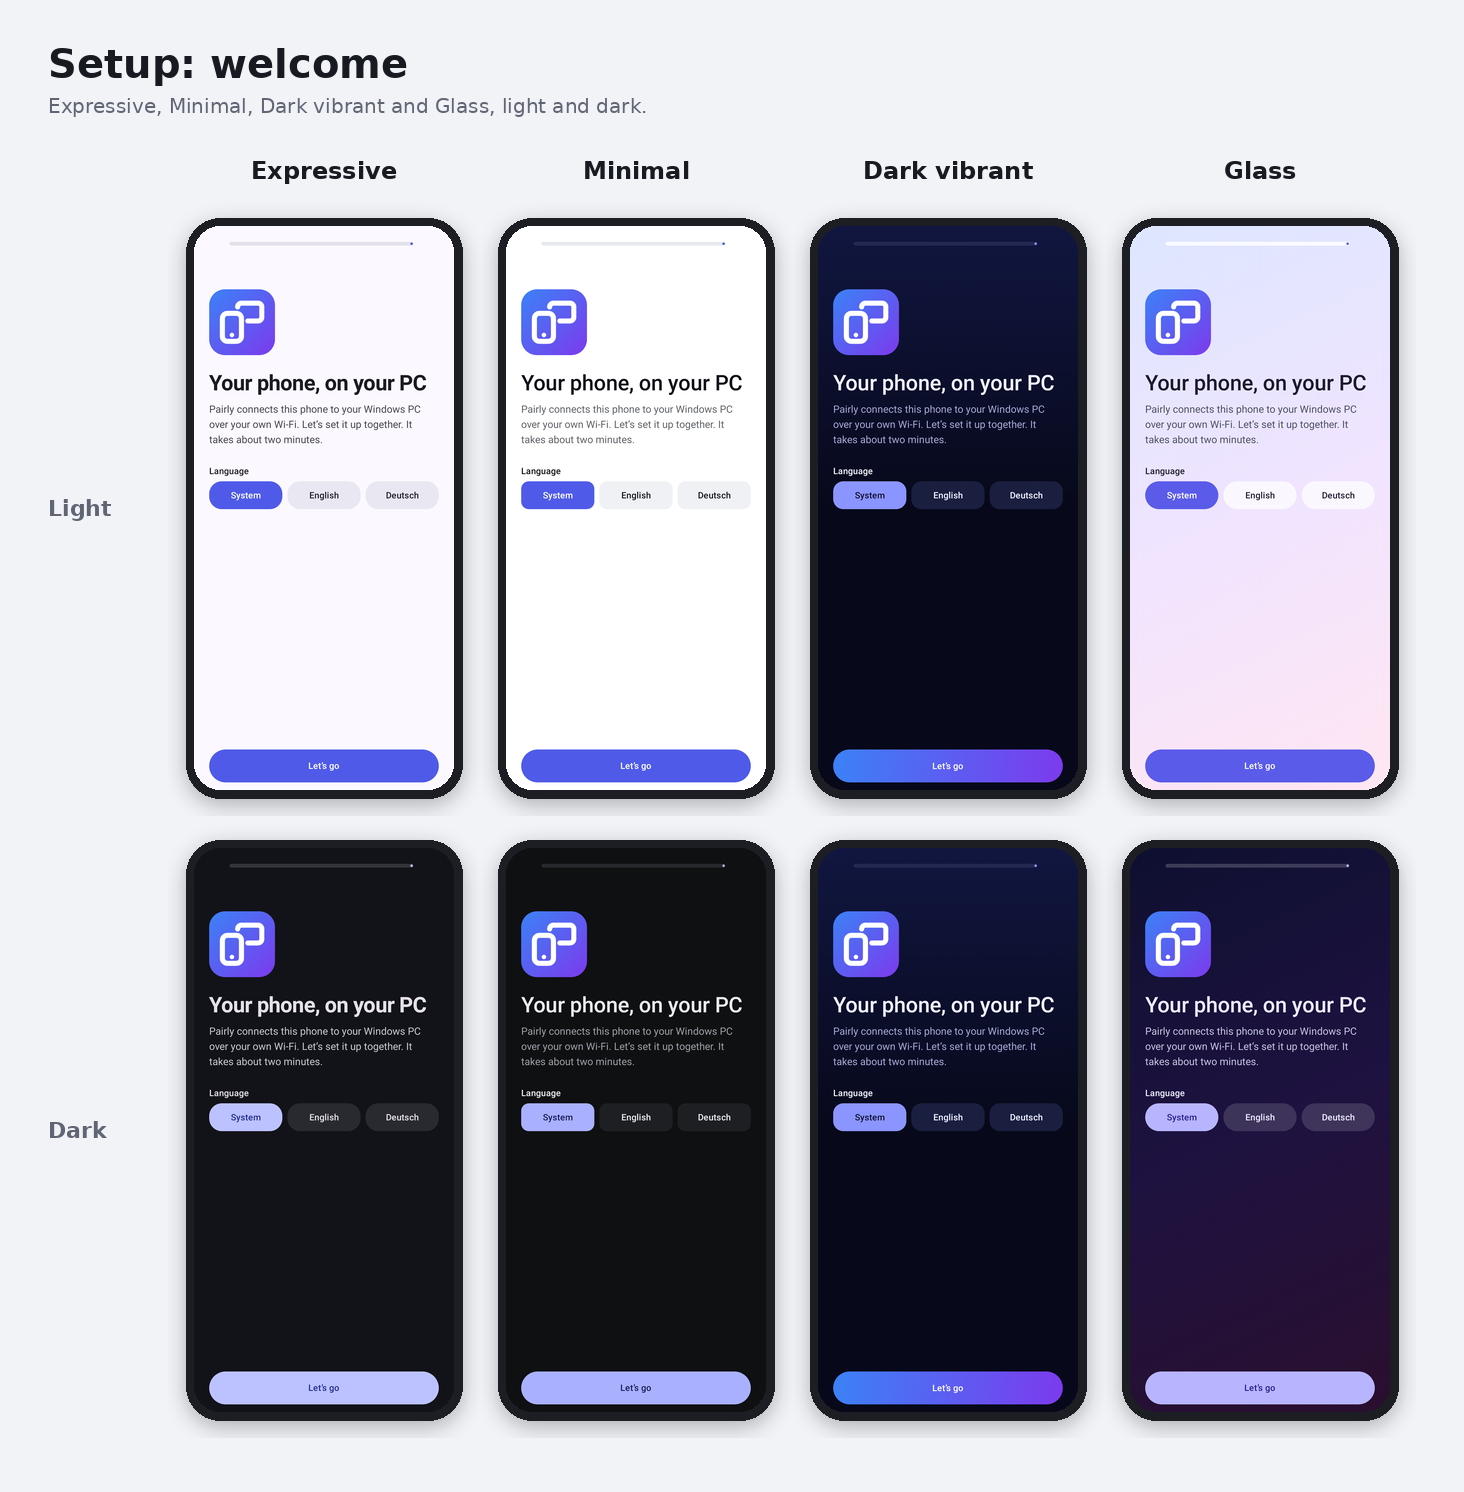
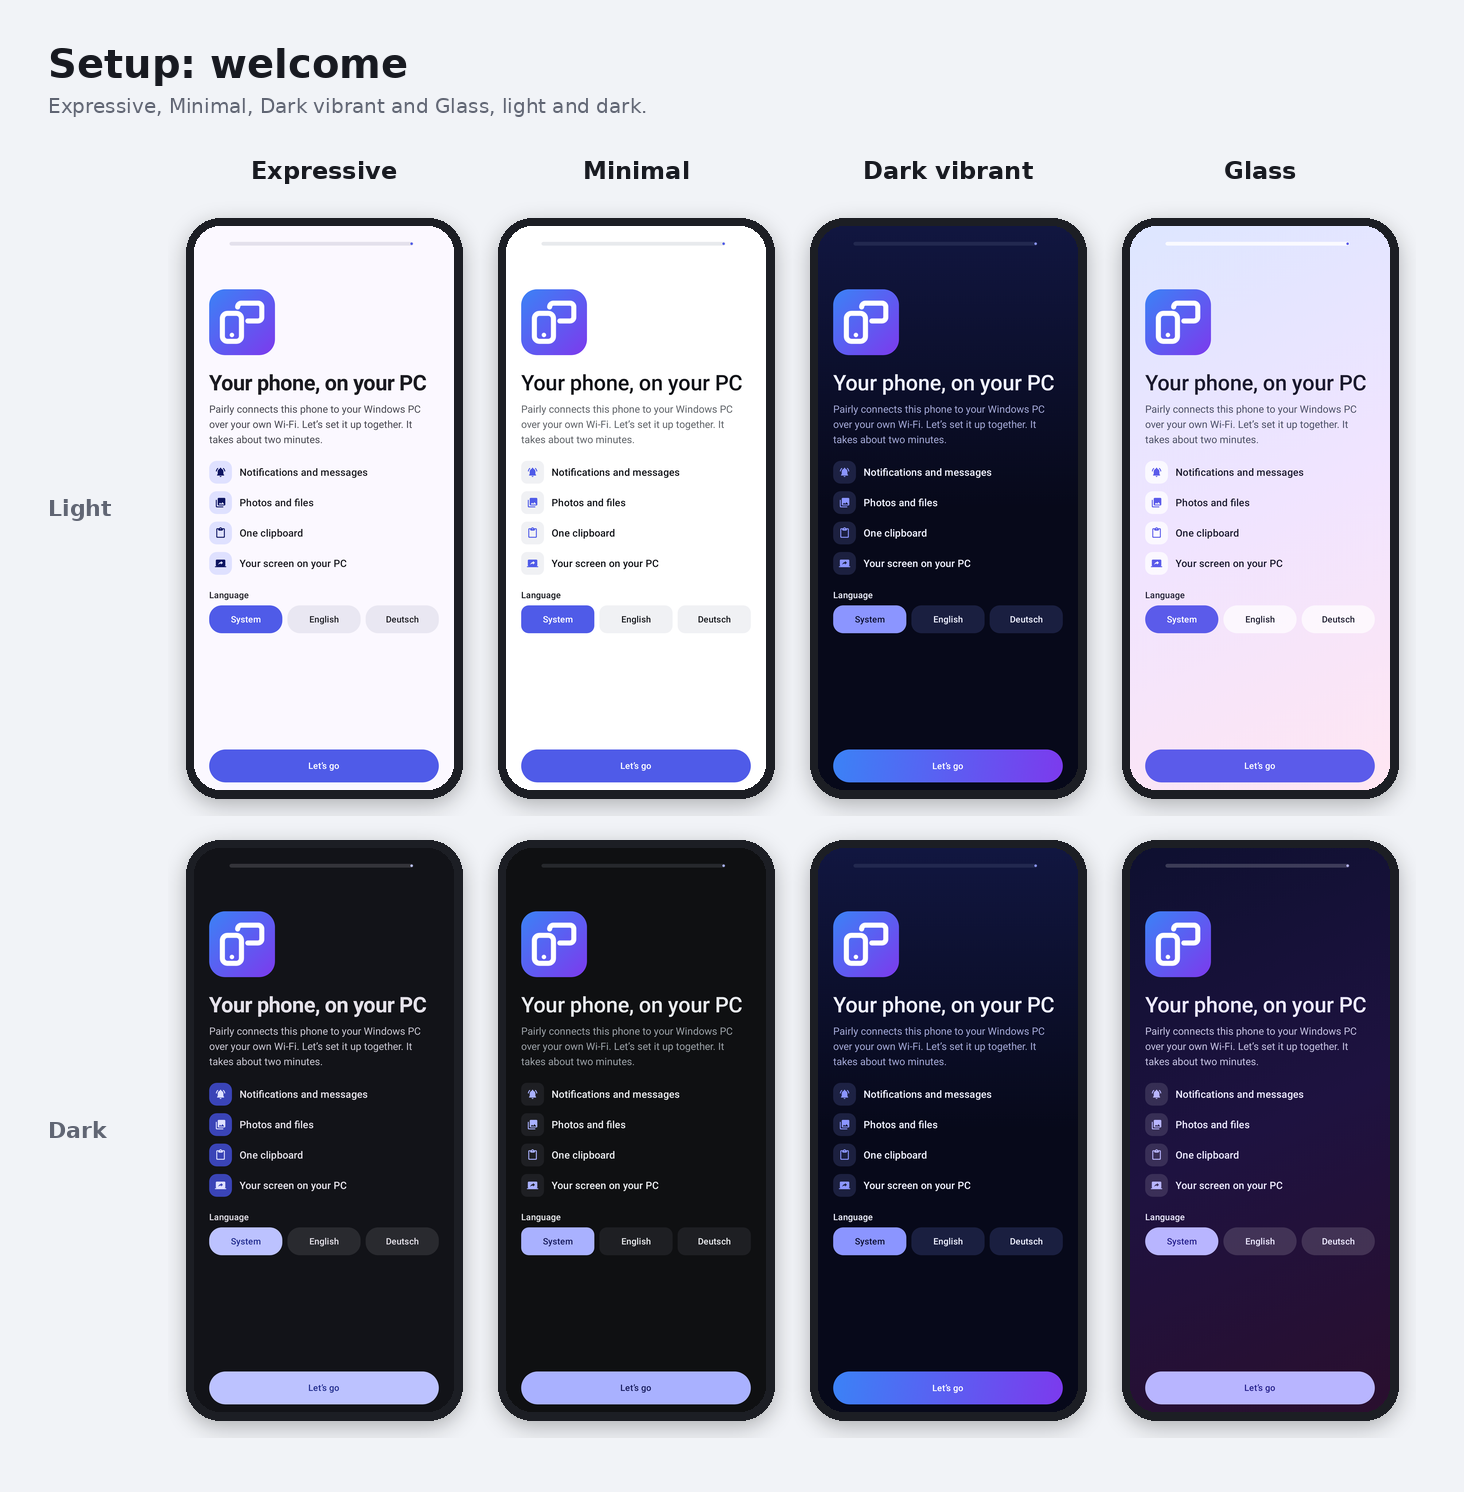
Add home-screen shortcuts and smooth out Android setup
- Long-press the Pairly icon for Scan PC code, Send clipboard and Sync
  now (English and German). All go through MainActivity, so the
  clipboard relay stays private to the app; a scanned code takes the
  same path as a pairing link from the camera.
- Setup skips permission steps that are already granted (Pairly
  notifications on Android 12 and older, or a reinstall); the summary
  still lists them as on.
- The welcome step previews what Pairly does, with rows that slide in,
  instead of leaving most of the screen empty.
- The emulator job keeps the app installed so its screenshots can be
  pulled; comparison sheets regenerated.

Claude-Session: https://claude.ai/code/session_01GYkTmrSDHNDfJoJuHQCcX3

diff --git a/src/android/app/src/main/java/dev/pairly/android/ui/onboarding/OnboardingScreen.kt b/src/android/app/src/main/java/dev/pairly/android/ui/onboarding/OnboardingScreen.kt
@@ -141,16 +141,28 @@ fun OnboardingScreen(
                             OnboardingStep.Welcome -> WelcomeStep(language, onLanguage) { onStep(current.next()) }
                             OnboardingStep.Tour -> TourStep { onStep(current.next()) }
                             OnboardingStep.InstallPc -> InstallPcStep { onStep(current.next()) }
-                            OnboardingStep.Pair -> PairStep(state, pairing) { onStep(current.next()) }
+                            OnboardingStep.Pair -> PairStep(state, pairing) { onStep(nextUnfinished(current, state)) }
                             OnboardingStep.Clipboard -> ClipboardStep(state) { onStep(current.next()) }
                             OnboardingStep.Done -> DoneStep(state, onFinish)
-                            else -> PermissionStep(current, state) { onStep(current.next()) }
+                            else -> PermissionStep(current, state) { onStep(nextUnfinished(current, state)) }
                         }
                     }
                 }
             }
         }
     }
+}
+
+/**
+ * The step after [step], skipping permission steps whose permission is already granted (Pairly
+ * notifications on Android 12 and older, or a reinstall). The summary still lists them as on.
+ */
+internal fun nextUnfinished(step: OnboardingStep, state: AppState): OnboardingStep {
+    var next = step.next()
+    while (next.feature != null && !next.feature.advanced && state.permissions.isOn(next.feature)) {
+        next = next.next()
+    }
+    return next
 }
 
 /** Scrollable content with the actions pinned to the bottom. */
@@ -203,7 +215,31 @@ private fun WelcomeStep(language: LocaleText.Language, onLanguage: (LocaleText.L
             Text(stringResource(R.string.onboarding_welcome_title), style = MaterialTheme.typography.displaySmall)
             Spacer(Modifier.height(Space.m))
             Text(stringResource(R.string.onboarding_welcome_body), style = MaterialTheme.typography.bodyLarge, color = MaterialTheme.colorScheme.onSurfaceVariant)
-            Spacer(Modifier.height(Space.xxxl))
+            Spacer(Modifier.height(Space.xxl))
+            Column(verticalArrangement = Arrangement.spacedBy(Space.m)) {
+                listOf(
+                    Icons.Rounded.NotificationsActive to R.string.tour_notifications_title,
+                    Icons.Rounded.PhotoLibrary to R.string.tour_photos_title,
+                    Icons.Rounded.ContentPaste to R.string.tour_clipboard_title,
+                    Icons.Rounded.ScreenShare to R.string.tour_screen_title
+                ).forEachIndexed { index, (icon, label) ->
+                    // Each row slides in a moment after the previous one.
+                    val shown = remember { Animatable(if (reduce) 1f else 0f) }
+                    LaunchedEffect(Unit) {
+                        delay(250L + index * 90L)
+                        shown.animateTo(1f, androidx.compose.animation.core.tween(320))
+                    }
+                    Row(
+                        verticalAlignment = Alignment.CenterVertically,
+                        modifier = Modifier.graphicsLayer { alpha = shown.value; translationX = (1f - shown.value) * 40f }
+                    ) {
+                        FeatureIcon(icon, size = 36.dp)
+                        Spacer(Modifier.width(Space.m))
+                        Text(stringResource(label), style = MaterialTheme.typography.titleMedium)
+                    }
+                }
+            }
+            Spacer(Modifier.height(Space.xxl))
             Text(stringResource(R.string.settings_language), style = MaterialTheme.typography.titleSmall)
             Spacer(Modifier.height(Space.s))
             ChoiceRow(

diff --git a/src/android/app/src/main/java/dev/pairly/android/MainActivity.kt b/src/android/app/src/main/java/dev/pairly/android/MainActivity.kt
@@ -72,7 +72,10 @@ class MainActivity : ComponentActivity(), FeatureActions {
         super.onCreate(savedInstanceState)
         enableEdgeToEdge()
         language = LocaleText.language(this)
-        if (savedInstanceState == null) incomingPairingLink = intent.pairingLink()
+        if (savedInstanceState == null) {
+            incomingPairingLink = intent.pairingLink()
+            handleShortcut(intent)
+        }
         setContent {
             CompositionLocalProvider(LocalFeatureActions provides this) {
                 PairlyApp(
@@ -226,6 +229,39 @@ class MainActivity : ComponentActivity(), FeatureActions {
     override fun onNewIntent(intent: Intent) {
         super.onNewIntent(intent)
         intent.pairingLink()?.let { incomingPairingLink = it }
+        handleShortcut(intent)
+    }
+
+    /** Home-screen shortcuts (res/xml/shortcuts.xml). */
+    private fun handleShortcut(intent: Intent) {
+        val paired = dev.pairly.android.network.ConnectionSettings(this).trustKey.isNotBlank()
+        val text = LocaleText.of(this)
+        when (intent.action) {
+            ACTION_SCAN -> if (canScanQr) {
+                // The scanned code goes through the same path as a pairly://pair link from the camera.
+                val options = GmsBarcodeScannerOptions.Builder().setBarcodeFormats(Barcode.FORMAT_QR_CODE).build()
+                GmsBarcodeScanning.getClient(this, options).startScan().addOnSuccessListener { barcode ->
+                    barcode.rawValue?.let { incomingPairingLink = it }
+                }
+            }
+            ACTION_SEND_CLIPBOARD -> if (paired) {
+                startActivity(Intent(this, dev.pairly.android.features.clipboard.ClipboardRelayActivity::class.java))
+            } else {
+                android.widget.Toast.makeText(this, text.getString(R.string.shortcut_disabled), android.widget.Toast.LENGTH_SHORT).show()
+            }
+            ACTION_SYNC -> if (paired) {
+                FeatureSyncController.syncAll(this)
+                android.widget.Toast.makeText(this, text.getString(R.string.shortcut_synced), android.widget.Toast.LENGTH_SHORT).show()
+            } else {
+                android.widget.Toast.makeText(this, text.getString(R.string.shortcut_disabled), android.widget.Toast.LENGTH_SHORT).show()
+            }
+        }
+    }
+
+    private companion object {
+        const val ACTION_SCAN = "dev.pairly.android.action.SCAN_PAIRING_CODE"
+        const val ACTION_SEND_CLIPBOARD = "dev.pairly.android.action.SEND_CLIPBOARD"
+        const val ACTION_SYNC = "dev.pairly.android.action.SYNC"
     }
 
     private fun Intent.pairingLink(): String? =

diff --git a/src/android/app/src/main/java/dev/pairly/android/ui/PairlyApp.kt b/src/android/app/src/main/java/dev/pairly/android/ui/PairlyApp.kt
@@ -82,7 +82,7 @@ fun PairlyApp(
         wasPaired = state.hasPairing
         if (justPaired && !prefs.onboardingDone && prefs.onboardingStep == OnboardingStep.Pair) {
             delay(1_200)
-            viewModel.updatePrefs { it.copy(onboardingStep = OnboardingStep.Pair.next()) }
+            viewModel.updatePrefs { it.copy(onboardingStep = dev.pairly.android.ui.onboarding.nextUnfinished(OnboardingStep.Pair, state)) }
         }
     }
 
